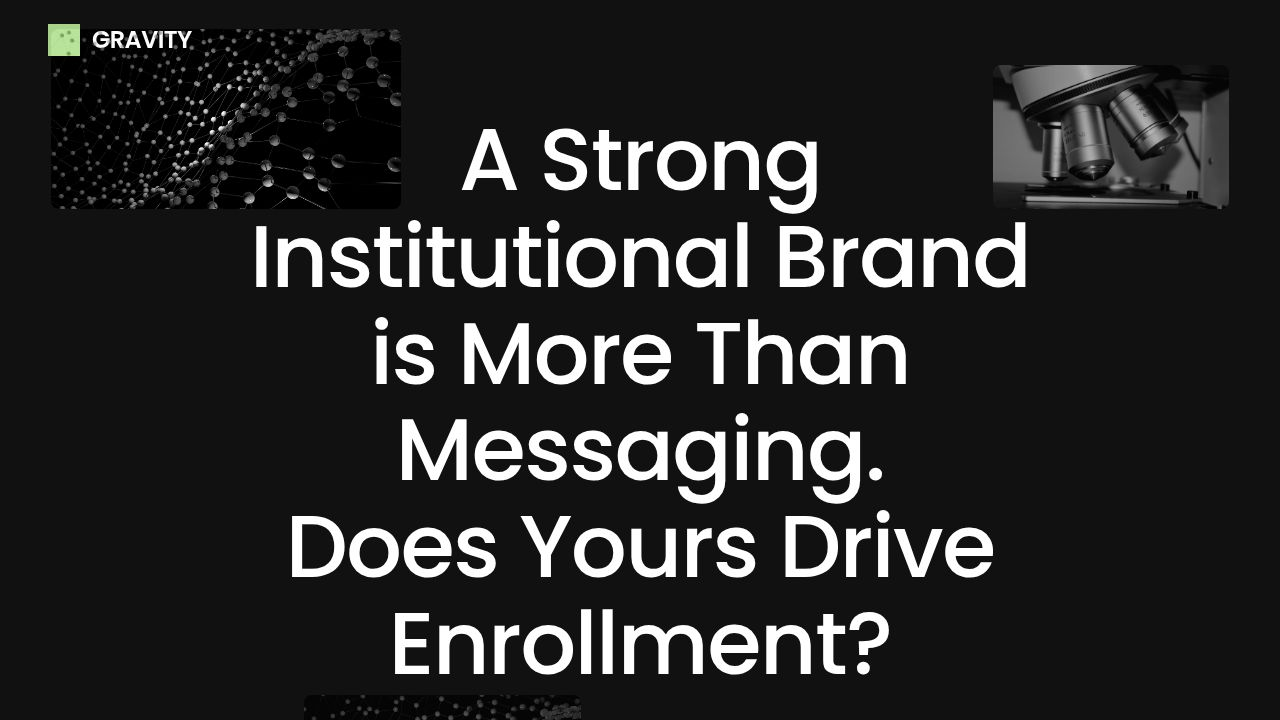
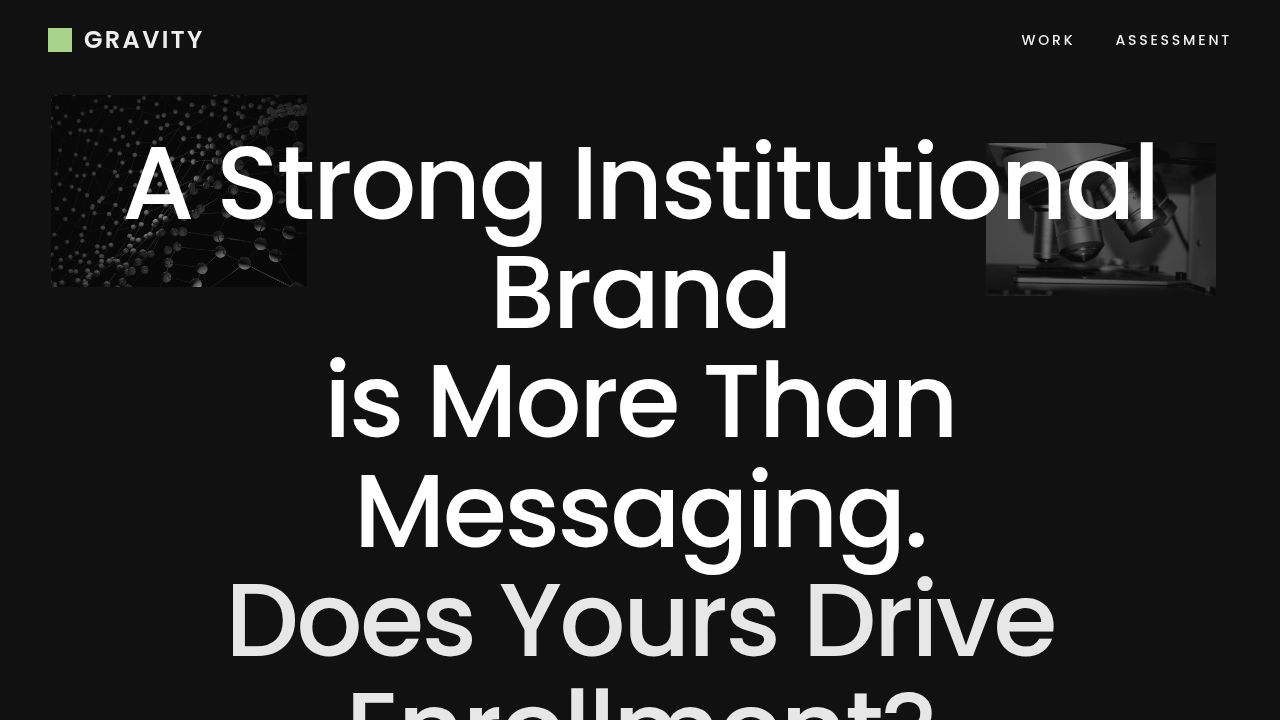
Enhance page design and add dynamic scrolling effects
Update Home.tsx with refined typography, spacing, and sharp corners, and implement CSS-based sticky positioning for layout.

Replit-Commit-Author: Agent
Replit-Commit-Session-Id: d6e0730f-b30e-491c-b3e2-d3f84d242913
Replit-Commit-Checkpoint-Type: full_checkpoint
Replit-Commit-Event-Id: 3c49ed87-6541-49a6-a26e-80dbf4d8117d
Replit-Commit-Screenshot-Url: https://storage.googleapis.com/screenshot-production-us-central1/9cd8e13a-6fcb-4403-b32e-22f1f94d53f9/d6e0730f-b30e-491c-b3e2-d3f84d242913/a3VxrYJ
Replit-Helium-Checkpoint-Created: true

diff --git a/client/src/pages/Home.tsx b/client/src/pages/Home.tsx
@@ -1,4 +1,3 @@
-import { Button } from "@/components/ui/button";
 import { useEffect, useState } from "react";
 
 export default function Home() {
@@ -13,175 +12,179 @@ export default function Home() {
     return () => window.removeEventListener("scroll", handleScroll);
   }, []);
 
+  const DiagonalArrow = ({ className = "" }: { className?: string }) => (
+    <svg xmlns="http://www.w3.org/2000/svg" width="24" height="24" viewBox="0 0 24 24" fill="none" stroke="currentColor" strokeWidth="1.5" strokeLinecap="square" strokeLinejoin="miter" className={className}>
+      <line x1="7" y1="17" x2="17" y2="7"></line>
+      <polyline points="7 7 17 7 17 17"></polyline>
+    </svg>
+  );
+
   return (
-    <div className="bg-[#111111] text-white font-sans selection:bg-[#B7E39B] selection:text-[#111111]">
+    <div className="bg-[#111111] text-white font-sans selection:bg-[#B7E39B] selection:text-[#111111] w-full overflow-x-hidden">
       
       {/* Navigation */}
-      <nav className="fixed w-full z-50 top-0 py-6 px-6 lg:px-12 flex items-center justify-between pointer-events-none">
-        <div className="pointer-events-auto flex items-center gap-3 bg-[#111]/80 backdrop-blur-md px-4 py-2 rounded-full border border-white/10">
-           <svg width="24" height="24" viewBox="0 0 32 32" fill="none" xmlns="http://www.w3.org/2000/svg">
-              <rect width="32" height="32" rx="0" fill="#B7E39B"/>
+      <nav className="fixed w-full z-50 top-0 py-8 px-6 lg:px-16 flex items-center justify-between pointer-events-none mix-blend-difference text-white">
+        <div className="pointer-events-auto flex items-center gap-4">
+           <svg width="28" height="28" viewBox="0 0 32 32" fill="none" xmlns="http://www.w3.org/2000/svg">
+              <rect width="32" height="32" fill="white"/>
            </svg>
-           <span className="font-semibold text-xl tracking-tight uppercase">Gravity</span>
+           <span className="font-semibold text-xl tracking-[0.2em] uppercase mt-1">Gravity</span>
         </div>
-        <div className="pointer-events-auto hidden md:flex items-center gap-8 text-sm font-medium tracking-wider uppercase bg-[#111]/80 backdrop-blur-md px-6 py-3 rounded-full border border-white/10">
-           <a href="#work" className="hover:text-[#B7E39B] transition-colors">Work</a>
-           <a href="#assessment" className="hover:text-[#B7E39B] transition-colors">Assessment</a>
+        <div className="pointer-events-auto hidden md:flex items-center gap-12 text-[12px] font-semibold tracking-[0.2em] uppercase mt-1">
+           <a href="#work" className="hover:opacity-50 transition-opacity duration-300">Work</a>
+           <a href="#assessment" className="hover:opacity-50 transition-opacity duration-300">Assessment</a>
         </div>
       </nav>
 
       {/* Hero Section */}
-      <section className="relative min-h-[100vh] md:min-h-[120vh] w-full flex items-center justify-center bg-[#111] pt-20 overflow-hidden">
+      <section className="relative min-h-screen w-full flex items-center justify-center bg-[#111111] pt-32 pb-32">
         
-        {/* Floating Images - 6 images in corners */}
-        <div className="absolute inset-0 z-0 pointer-events-none">
+        {/* Floating Images Parallax */}
+        <div className="absolute inset-0 z-0 pointer-events-none overflow-hidden">
            {/* Top Left */}
            <div 
-             className="absolute top-[10%] left-[5%] md:left-[8%] w-[200px] md:w-[300px] aspect-[4/3] opacity-60 transition-transform duration-75 ease-out"
-             style={{ transform: `translateY(${scrollY * 0.15}px)` }}
+             className="absolute top-[8%] left-[2%] w-[22vw] max-w-[320px] aspect-[4/3] opacity-[0.35] grayscale transition-transform duration-75 ease-out"
+             style={{ transform: `translateY(${scrollY * 0.1}px)` }}
            >
-              <img src="/src/assets/hero-bg.jpg" className="w-full h-full object-cover rounded-sm" alt=""/>
+              <img src="/src/assets/hero-bg.jpg" className="w-full h-full object-cover" alt=""/>
            </div>
+           
            {/* Top Right */}
            <div 
-             className="absolute top-[15%] right-[5%] md:right-[8%] w-[180px] md:w-[250px] aspect-[3/2] opacity-60 transition-transform duration-75 ease-out"
-             style={{ transform: `translateY(${scrollY * 0.25}px)` }}
+             className="absolute top-[12%] right-[2%] w-[18vw] max-w-[260px] aspect-[3/2] opacity-[0.25] grayscale transition-transform duration-75 ease-out"
+             style={{ transform: `translateY(${scrollY * 0.18}px)` }}
            >
-              <img src="/src/assets/ucla.jpg" className="w-full h-full object-cover rounded-sm" alt=""/>
+              <img src="/src/assets/ucla.jpg" className="w-full h-full object-cover" alt=""/>
            </div>
-           {/* Bottom Left Pair */}
+           
+           {/* Bottom Left Group */}
            <div 
-             className="absolute bottom-[10%] left-[5%] md:left-[8%] flex gap-4 items-end opacity-60 transition-transform duration-75 ease-out"
+             className="absolute bottom-[2%] left-[-1%] flex gap-[2vw] items-end transition-transform duration-75 ease-out"
              style={{ transform: `translateY(-${scrollY * 0.1}px)` }}
            >
-              <div className="w-[150px] md:w-[200px] aspect-[4/3]">
-                 <img src="/src/assets/montgomery-college.jpg" className="w-full h-full object-cover rounded-sm" alt=""/>
+              <div className="w-[18vw] max-w-[240px] aspect-[4/3] opacity-[0.45] grayscale">
+                 <img src="/src/assets/montgomery-college.jpg" className="w-full h-full object-cover" alt=""/>
               </div>
-              <div className="w-[120px] md:w-[180px] aspect-[3/4]">
-                 <img src="/src/assets/hero-bg.jpg" className="w-full h-full object-cover rounded-sm" alt=""/>
+              <div className="w-[20vw] max-w-[280px] aspect-[3/4] opacity-[0.35] grayscale">
+                 <img src="/src/assets/hero-bg.jpg" className="w-full h-full object-cover" alt=""/>
               </div>
            </div>
-           {/* Bottom Right Pair */}
+           
+           {/* Bottom Right Group */}
            <div 
-             className="absolute bottom-[5%] right-[5%] md:right-[8%] flex gap-4 items-start opacity-60 transition-transform duration-75 ease-out"
-             style={{ transform: `translateY(-${scrollY * 0.2}px)` }}
+             className="absolute bottom-[8%] right-[1%] flex gap-[2vw] items-start transition-transform duration-75 ease-out"
+             style={{ transform: `translateY(-${scrollY * 0.15}px)` }}
            >
-              <div className="w-[180px] md:w-[220px] aspect-[4/3]">
-                 <img src="/src/assets/ucla.jpg" className="w-full h-full object-cover rounded-sm" alt=""/>
+              <div className="w-[18vw] max-w-[260px] aspect-[4/3] opacity-[0.35] grayscale">
+                 <img src="/src/assets/ucla.jpg" className="w-full h-full object-cover" alt=""/>
               </div>
-              <div className="w-[140px] md:w-[160px] aspect-[3/4] mt-8 md:mt-12">
-                 <img src="/src/assets/montgomery-college.jpg" className="w-full h-full object-cover rounded-sm" alt=""/>
+              <div className="w-[14vw] max-w-[190px] aspect-[3/4] mt-24 opacity-[0.45] grayscale">
+                 <img src="/src/assets/montgomery-college.jpg" className="w-full h-full object-cover" alt=""/>
               </div>
            </div>
         </div>
 
         {/* Center Text */}
-        <div className="relative z-10 flex flex-col items-center text-center px-4 w-full max-w-[1000px] mt-8">
-          <h1 className="text-[3rem] sm:text-[4rem] md:text-[5rem] lg:text-[6rem] font-medium leading-[1.05] tracking-tight mb-8 drop-shadow-2xl">
+        <div className="relative z-10 flex flex-col items-center text-center px-6 w-full max-w-[1200px] mix-blend-difference text-white">
+          <h1 className="text-[3.5rem] sm:text-[5rem] md:text-[6.5rem] lg:text-[7.5rem] font-medium leading-[1] tracking-[-0.03em] mb-10 text-white">
             A Strong Institutional Brand<br/>
             is More Than Messaging.<br/>
-            Does Yours Drive Enrollment?
+            <span className="text-white/60">Does Yours Drive Enrollment?</span>
           </h1>
-          <p className="text-lg md:text-[1.25rem] text-white/90 max-w-[700px] mb-12 leading-relaxed font-medium drop-shadow-lg">
+          <p className="text-xl md:text-[1.4rem] text-white/60 max-w-[760px] mb-16 leading-[1.6] font-light">
             Let's shape what's next for your institution. Start with the assessment, explore real college success stories, or grab your chance for a free comprehensive brand audit.
           </p>
-          <div className="flex flex-col sm:flex-row gap-6 items-center w-full sm:w-auto">
-            <a href="#assessment" className="flex items-center gap-6 bg-[#B7E39B] text-[#111] hover:bg-white hover:text-[#111] transition-colors duration-300 px-8 py-4 text-lg font-medium w-full sm:w-auto justify-between group rounded-sm shadow-xl">
-              <span>Take the Quiz</span>
-              <svg xmlns="http://www.w3.org/2000/svg" width="20" height="20" viewBox="0 0 66 76" fill="none" className="transform group-hover:translate-x-1 transition-transform">
-                <path d="M1 10.6182H65M65 10.6182V74.6182M65 10.6182L1 74.6182" stroke="currentColor" strokeWidth="6"></path>
-              </svg>
+          <div className="flex flex-col sm:flex-row gap-6 items-center justify-center w-full">
+            <a href="#assessment" className="group flex items-center justify-between gap-12 border border-[#B7E39B] bg-transparent hover:bg-[#B7E39B] text-[#B7E39B] hover:text-[#111] transition-all duration-300 px-10 py-5 text-lg font-medium w-full sm:w-auto min-w-[300px]">
+              <span className="tracking-wide">Take the Quiz</span>
+              <DiagonalArrow className="transform group-hover:translate-x-1 group-hover:-translate-y-1 transition-transform duration-300" />
             </a>
-            <a href="#audit" className="flex items-center gap-6 bg-[#111]/80 backdrop-blur-md border border-[#B7E39B] text-[#B7E39B] hover:bg-[#B7E39B] hover:text-[#111] transition-colors duration-300 px-8 py-4 text-lg font-medium w-full sm:w-auto justify-between group rounded-sm shadow-xl">
-              <span>Win a Free Brand Audit</span>
-              <svg xmlns="http://www.w3.org/2000/svg" width="20" height="20" viewBox="0 0 66 76" fill="none" className="transform group-hover:translate-x-1 transition-transform">
-                <path d="M1 10.6182H65M65 10.6182V74.6182M65 10.6182L1 74.6182" stroke="currentColor" strokeWidth="6"></path>
-              </svg>
+            <a href="#audit" className="group flex items-center justify-between gap-12 border border-white/30 bg-transparent hover:border-white hover:bg-white text-white hover:text-[#111] transition-all duration-300 px-10 py-5 text-lg font-medium w-full sm:w-auto min-w-[300px]">
+              <span className="tracking-wide">Win a Free Brand Audit</span>
+              <DiagonalArrow className="transform group-hover:translate-x-1 group-hover:-translate-y-1 transition-transform duration-300" />
             </a>
           </div>
         </div>
       </section>
 
       {/* Intro Section */}
-      <section className="bg-[#111] py-32 lg:py-48 px-6 lg:px-12 relative z-20">
-        <div className="max-w-[1312px] mx-auto">
-          <p className="text-sm font-medium tracking-[0.2em] uppercase text-[#B7E39B] mb-8">Our Focus on Institutions</p>
-          <div className="max-w-[1000px]">
-             <h2 className="text-[2rem] md:text-[3.5rem] lg:text-[4.5rem] font-medium leading-[1.1] tracking-tight mb-8">
-               From first awareness to active advocacy, <span className="text-white/40">leading institutions are designing experiences that turn students into ambassadors.</span>
+      <section className="bg-[#111111] py-40 lg:py-56 px-6 lg:px-16 relative z-20">
+        <div className="max-w-[1400px] mx-auto">
+          <p className="text-[13px] font-semibold tracking-[0.25em] uppercase text-[#B7E39B] mb-12">Our Focus on Institutions</p>
+          <div className="max-w-[1200px]">
+             <h2 className="text-[3rem] md:text-[4.5rem] lg:text-[5.5rem] font-medium leading-[1.05] tracking-[-0.02em] mb-10 text-white">
+               From first awareness to active advocacy, <span className="text-white/30">leading institutions are designing experiences that turn students into ambassadors.</span>
              </h2>
-             <p className="text-xl text-white/50 leading-relaxed font-light">
+             <p className="text-2xl lg:text-[1.75rem] text-white/40 leading-[1.6] font-light max-w-[860px]">
                See how institutions like Montgomery College and UCLA align brand strategy with the student journey.
              </p>
           </div>
         </div>
       </section>
 
-      {/* CSS Sticky Case Studies */}
-      <section id="work" className="relative w-full bg-[#111]">
+      {/* Sticky Case Studies */}
+      <section id="work" className="relative w-full bg-[#111111]">
          
          {/* Slide 1: Montgomery College */}
-         <div className="sticky top-0 h-screen w-full flex items-center px-6 lg:px-12 bg-[#111] overflow-hidden pt-20">
-            <div className="max-w-[1312px] mx-auto w-full grid lg:grid-cols-[1fr_1.2fr] gap-12 lg:gap-24 items-center">
+         <div className="sticky top-0 min-h-screen w-full flex items-center px-6 lg:px-16 bg-[#111111] pt-32 pb-32 border-t border-white/10">
+            <div className="max-w-[1500px] mx-auto w-full grid lg:grid-cols-[1fr_1.4fr] gap-16 lg:gap-32 items-center">
                
-               <div className="flex flex-col gap-8">
+               <div className="flex flex-col gap-10">
                   <div>
-                    <p className="text-white/60 mb-4 text-lg">Showcasing Exceptional Education & Extraordinary Outcomes</p>
-                    <h2 className="text-[3rem] md:text-[4rem] lg:text-[5rem] leading-[1.05] font-medium text-white mb-6 tracking-tight">
-                      Montgomery College
+                    <p className="text-[#B7E39B] text-[12px] font-semibold tracking-[0.25em] uppercase mb-8">Montgomery College</p>
+                    <h2 className="text-[3.5rem] md:text-[5rem] lg:text-[6rem] leading-[1] font-medium text-white tracking-[-0.02em]">
+                      Showcasing Exceptional Education & Outcomes
                     </h2>
-                    <div className="text-[3rem] font-medium text-[#B7E39B]">01</div>
                   </div>
-                  <div className="space-y-6 text-white/70 text-lg font-light leading-relaxed">
-                    <p><strong className="text-white font-medium">The Challenge:</strong> Montgomery College set out to reframe its story—shifting perceptions of what a community college can be. The goal was to attract more students, deepen pride among alumni, and unify teams.</p>
-                    <p><strong className="text-white font-medium">Our Approach:</strong> Gravity began by engaging deeply with the College community through workshops and learner surveys. These insights informed the development of a new brand platform.</p>
+                  <div className="space-y-6 text-white/50 text-xl lg:text-[1.35rem] font-light leading-[1.6]">
+                    <p><strong className="text-white/80 font-medium">The Challenge:</strong> Montgomery College set out to reframe its story—shifting perceptions of what a community college can be. The goal was to attract more students, deepen pride among alumni, and unify teams.</p>
+                    <p><strong className="text-white/80 font-medium">Our Approach:</strong> Gravity began by engaging deeply with the College community through workshops and learner surveys. These insights informed the development of a new brand platform.</p>
                   </div>
-                  <div className="grid grid-cols-2 gap-8 pt-8 border-t border-white/10 mt-4">
+                  <div className="grid grid-cols-2 gap-12 pt-12 border-t border-white/10 mt-6">
                      <div>
-                       <div className="text-[3rem] font-medium text-[#B7E39B] leading-none mb-2">100%</div>
-                       <div className="text-sm opacity-60 uppercase tracking-wider">Leadership adoption</div>
+                       <div className="text-[4.5rem] lg:text-[5.5rem] font-medium text-white leading-none mb-4 tracking-tighter">100%</div>
+                       <div className="text-[12px] text-[#B7E39B] uppercase tracking-[0.2em] font-semibold">Leadership adoption</div>
                      </div>
                      <div>
-                       <div className="text-[3rem] font-medium text-[#B7E39B] leading-none mb-2">3</div>
-                       <div className="text-sm opacity-60 uppercase tracking-wider">Creative platforms</div>
+                       <div className="text-[4.5rem] lg:text-[5.5rem] font-medium text-white leading-none mb-4 tracking-tighter">3</div>
+                       <div className="text-[12px] text-[#B7E39B] uppercase tracking-[0.2em] font-semibold">Creative platforms</div>
                      </div>
                   </div>
                </div>
 
-               <div className="w-full aspect-[4/3] relative rounded-none overflow-hidden group">
-                  <img src="/src/assets/montgomery-college.jpg" className="w-full h-full object-cover transition-transform duration-700 group-hover:scale-105" alt="Montgomery College" />
+               <div className="w-full aspect-[4/3] lg:aspect-[3/4] max-h-[85vh] relative overflow-hidden bg-[#1a1a1a]">
+                  <img src="/src/assets/montgomery-college.jpg" className="w-full h-full object-cover opacity-60 hover:opacity-100 transition-all duration-1000 hover:scale-[1.03] grayscale hover:grayscale-0" alt="Montgomery College" />
                </div>
 
             </div>
          </div>
 
          {/* Slide 2: UCLA */}
-         <div className="sticky top-0 h-screen w-full flex items-center px-6 lg:px-12 bg-[#111] border-t border-white/10 overflow-hidden shadow-[0_-20px_50px_rgba(0,0,0,0.5)] pt-20">
-            <div className="max-w-[1312px] mx-auto w-full grid lg:grid-cols-[1fr_1.2fr] gap-12 lg:gap-24 items-center">
+         <div className="sticky top-0 min-h-screen w-full flex items-center px-6 lg:px-16 bg-[#111111] pt-32 pb-32 border-t border-white/10 shadow-[0_-30px_60px_rgba(0,0,0,0.8)]">
+            <div className="max-w-[1500px] mx-auto w-full grid lg:grid-cols-[1fr_1.4fr] gap-16 lg:gap-32 items-center">
                
-               <div className="flex flex-col gap-8">
+               <div className="flex flex-col gap-10">
                   <div>
-                    <p className="text-white/60 mb-4 text-lg">Research Powers Miracles at UCLA</p>
-                    <h2 className="text-[3rem] md:text-[4rem] lg:text-[5rem] leading-[1.05] font-medium text-white mb-6 tracking-tight">
-                      UCLA
+                    <p className="text-[#B7E39B] text-[12px] font-semibold tracking-[0.25em] uppercase mb-8">UCLA</p>
+                    <h2 className="text-[3.5rem] md:text-[5rem] lg:text-[6rem] leading-[1] font-medium text-white tracking-[-0.02em]">
+                      Research Powers Miracles at UCLA
                     </h2>
-                    <div className="text-[3rem] font-medium text-[#B7E39B]">02</div>
                   </div>
-                  <div className="space-y-6 text-white/70 text-lg font-light leading-relaxed">
-                    <p><strong className="text-white font-medium">The Challenge:</strong> UCLA wanted a story that wouldn't feel like another "university video." It needed to feel warm and personal, not institutional, while speaking to a wide audience.</p>
-                    <p><strong className="text-white font-medium">Our Approach:</strong> Instead of big promises, UCLA had an opportunity to tell a true story only they could tell: research that directly changes a person's life, plus the community that makes those breakthroughs possible.</p>
+                  <div className="space-y-6 text-white/50 text-xl lg:text-[1.35rem] font-light leading-[1.6]">
+                    <p><strong className="text-white/80 font-medium">The Challenge:</strong> UCLA wanted a story that wouldn't feel like another "university video." It needed to feel warm and personal, not institutional, while speaking to a wide audience.</p>
+                    <p><strong className="text-white/80 font-medium">Our Approach:</strong> Instead of big promises, UCLA had an opportunity to tell a true story only they could tell: research that directly changes a person's life, plus the community that makes those breakthroughs possible.</p>
                   </div>
-                  <div className="pt-8 border-t border-white/10 mt-4">
-                     <ul className="space-y-4">
-                       <li className="flex gap-4 items-start"><span className="text-[#B7E39B] mt-1">/</span><span className="text-white/80">Show UCLA's impact beyond campus</span></li>
-                       <li className="flex gap-4 items-start"><span className="text-[#B7E39B] mt-1">/</span><span className="text-white/80">Make complex science feel human</span></li>
-                       <li className="flex gap-4 items-start"><span className="text-[#B7E39B] mt-1">/</span><span className="text-white/80">Reinforce lifelong connection</span></li>
+                  <div className="pt-12 border-t border-white/10 mt-6">
+                     <ul className="space-y-6 text-xl lg:text-[1.35rem] font-light">
+                       <li className="flex gap-6 items-start"><span className="text-[#B7E39B] font-medium">/</span><span className="text-white/60">Show UCLA's impact beyond campus</span></li>
+                       <li className="flex gap-6 items-start"><span className="text-[#B7E39B] font-medium">/</span><span className="text-white/60">Make complex science feel human</span></li>
+                       <li className="flex gap-6 items-start"><span className="text-[#B7E39B] font-medium">/</span><span className="text-white/60">Reinforce lifelong connection</span></li>
                      </ul>
                   </div>
                </div>
 
-               <div className="w-full aspect-[4/3] relative rounded-none overflow-hidden group">
-                  <img src="/src/assets/ucla.jpg" className="w-full h-full object-cover transition-transform duration-700 group-hover:scale-105" alt="UCLA" />
+               <div className="w-full aspect-[4/3] lg:aspect-[3/4] max-h-[85vh] relative overflow-hidden bg-[#1a1a1a]">
+                  <img src="/src/assets/ucla.jpg" className="w-full h-full object-cover opacity-60 hover:opacity-100 transition-all duration-1000 hover:scale-[1.03] grayscale hover:grayscale-0" alt="UCLA" />
                </div>
 
             </div>
@@ -190,65 +193,60 @@ export default function Home() {
       </section>
 
       {/* Assessment CTA */}
-      <section id="assessment" className="py-32 lg:py-48 px-6 lg:px-12 bg-[#111] relative z-20 border-t border-white/10">
-        <div className="max-w-[1312px] mx-auto grid lg:grid-cols-2 gap-16 items-center">
-          <div>
-            <h2 className="text-[3rem] md:text-[4.5rem] font-medium leading-[1.05] tracking-tight mb-8">
+      <section id="assessment" className="py-40 lg:py-56 px-6 lg:px-16 bg-[#111111] relative z-20 border-t border-white/10">
+        <div className="max-w-[1500px] mx-auto grid lg:grid-cols-2 gap-20 items-center">
+          <div className="order-2 lg:order-1">
+            <h2 className="text-[4rem] md:text-[5.5rem] lg:text-[7rem] font-medium leading-[1] tracking-[-0.02em] mb-10 text-white">
               The 3-Minute <br/> Enrollment Check
             </h2>
-            <p className="text-xl md:text-2xl text-white/60 mb-12 font-light leading-relaxed max-w-lg">
+            <p className="text-xl lg:text-[1.5rem] text-white/50 mb-14 font-light leading-[1.6] max-w-[600px]">
               Find out if your institution's brand story reflects its full potential and is driving measurable growth.
             </p>
-            <a href="#" className="inline-flex items-center gap-6 border border-[#B7E39B] text-[#B7E39B] hover:bg-[#B7E39B] hover:text-[#111] transition-colors duration-300 px-8 py-5 font-medium text-lg justify-between group rounded-sm w-full sm:w-auto">
-              <span>Start Quiz</span>
-              <svg xmlns="http://www.w3.org/2000/svg" width="24" height="24" viewBox="0 0 66 76" fill="none" className="transform group-hover:translate-x-1 transition-transform">
-                <path d="M1 10.6182H65M65 10.6182V74.6182M65 10.6182L1 74.6182" stroke="currentColor" strokeWidth="6"></path>
-              </svg>
+            <a href="#" className="group inline-flex items-center justify-between gap-12 border border-[#B7E39B] bg-[#B7E39B] hover:bg-transparent text-[#111] hover:text-[#B7E39B] transition-all duration-300 px-10 py-5 font-medium text-lg w-full sm:w-auto min-w-[320px]">
+              <span className="tracking-wide">Start Quiz</span>
+              <DiagonalArrow className="transform group-hover:translate-x-1 group-hover:-translate-y-1 transition-transform duration-300" />
             </a>
           </div>
           
-          <div className="flex justify-center lg:justify-end">
-            <div className="w-full max-w-[450px] aspect-square border border-[#B7E39B] rounded-full flex flex-col items-center justify-center p-12 text-center relative group overflow-hidden bg-[#111]">
-              <div className="absolute inset-0 bg-[#B7E39B]/5 group-hover:bg-[#B7E39B]/10 transition-colors"></div>
-              <h3 className="text-2xl font-medium mb-4 relative z-10 text-[#B7E39B]">Is Your Brand Driving Growth?</h3>
-              <p className="text-white/60 relative z-10 text-lg">A 3-minute executive assessment for Presidents, CMOs, and Enrollment Leaders.</p>
+          <div className="order-1 lg:order-2 flex justify-center lg:justify-end">
+            <div className="w-[85vw] max-w-[550px] aspect-square border border-white/10 rounded-full flex flex-col items-center justify-center p-16 lg:p-24 text-center relative group overflow-hidden bg-transparent transition-all duration-700 hover:border-[#B7E39B]/40 hover:bg-[#B7E39B]/5 cursor-pointer">
+              <h3 className="text-3xl md:text-[2.75rem] font-medium mb-6 relative z-10 text-white group-hover:text-[#B7E39B] transition-colors duration-500 tracking-tight leading-[1.1]">Is Your Brand Driving Growth?</h3>
+              <p className="text-white/40 relative z-10 text-lg lg:text-xl font-light leading-[1.6] group-hover:text-white/70 transition-colors duration-500">A 3-minute executive assessment for Presidents, CMOs, and Enrollment Leaders.</p>
             </div>
           </div>
         </div>
       </section>
 
       {/* Brand Audit Banner */}
-      <section id="audit" className="py-32 lg:py-48 px-6 lg:px-12 bg-[#B7E39B] text-[#111] text-center">
-        <div className="max-w-[1000px] mx-auto">
-          <h2 className="text-[3rem] md:text-[5rem] font-medium leading-[1.05] tracking-tight mb-8">
-            Win a Free Brand Audit
+      <section id="audit" className="py-40 lg:py-56 px-6 lg:px-16 bg-[#B7E39B] text-[#111111] text-center">
+        <div className="max-w-[1400px] mx-auto flex flex-col items-center">
+          <h2 className="text-[4.5rem] md:text-[7rem] lg:text-[9rem] font-medium leading-[0.95] tracking-[-0.03em] mb-12">
+            Win a Free <br className="hidden md:block"/> Brand Audit
           </h2>
-          <p className="text-xl md:text-2xl opacity-80 mb-12 font-medium leading-relaxed">
+          <p className="text-xl lg:text-[1.75rem] opacity-80 mb-16 font-medium leading-[1.5] max-w-[1000px] mx-auto">
             One institution will receive a complimentary 1:1 Enrollment Acceleration Workshop — a private working session with Gravity experts focused on identifying enrollment friction and mapping growth opportunities.
           </p>
-          <a href="#" className="inline-flex items-center gap-6 border border-[#111] text-[#111] hover:bg-[#111] hover:text-[#B7E39B] transition-colors duration-300 px-10 py-5 font-medium text-xl justify-between group rounded-sm">
-            <span>Enter Now</span>
-            <svg xmlns="http://www.w3.org/2000/svg" width="24" height="24" viewBox="0 0 66 76" fill="none" className="transform group-hover:translate-x-1 transition-transform">
-              <path d="M1 10.6182H65M65 10.6182V74.6182M65 10.6182L1 74.6182" stroke="currentColor" strokeWidth="6"></path>
-            </svg>
+          <a href="#" className="group inline-flex items-center justify-between gap-12 border border-[#111111] bg-transparent hover:bg-[#111111] text-[#111111] hover:text-[#B7E39B] transition-all duration-300 px-12 py-6 font-medium text-xl w-full sm:w-auto min-w-[340px]">
+            <span className="tracking-wide">Enter Now</span>
+            <DiagonalArrow className="transform group-hover:translate-x-1 group-hover:-translate-y-1 transition-transform duration-300" />
           </a>
         </div>
       </section>
 
       {/* Footer */}
-      <footer className="py-16 px-6 lg:px-12 bg-[#111] border-t border-white/10">
-        <div className="max-w-[1312px] mx-auto flex flex-col md:flex-row justify-between items-center gap-6">
-          <div className="flex items-center gap-3">
-             <svg width="24" height="24" viewBox="0 0 32 32" fill="none" xmlns="http://www.w3.org/2000/svg">
-                <rect width="32" height="32" rx="0" fill="#B7E39B"/>
+      <footer className="py-24 px-6 lg:px-16 bg-[#111111] border-t border-white/10">
+        <div className="max-w-[1500px] mx-auto flex flex-col lg:flex-row justify-between items-center gap-12">
+          <div className="flex items-center gap-4">
+             <svg width="36" height="36" viewBox="0 0 32 32" fill="none" xmlns="http://www.w3.org/2000/svg">
+                <rect width="32" height="32" fill="#B7E39B"/>
              </svg>
-             <span className="font-semibold text-xl tracking-widest uppercase">Gravity</span>
+             <span className="font-semibold text-2xl tracking-[0.2em] uppercase text-white mt-1">Gravity</span>
           </div>
-          <div className="flex gap-8 text-sm text-white/50 uppercase tracking-widest font-medium">
-            <a href="#" className="hover:text-[#B7E39B] transition-colors">Privacy Policy</a>
-            <a href="#" className="hover:text-[#B7E39B] transition-colors">Terms of Service</a>
+          <div className="flex gap-16 text-[12px] text-white/50 uppercase tracking-[0.2em] font-semibold mt-1">
+            <a href="#" className="hover:text-white transition-colors duration-300">Privacy Policy</a>
+            <a href="#" className="hover:text-white transition-colors duration-300">Terms of Service</a>
           </div>
-          <div className="text-sm text-white/30 font-light">
+          <div className="text-[12px] text-white/30 font-light tracking-widest uppercase mt-1">
             © {new Date().getFullYear()} Gravity Global. All rights reserved.
           </div>
         </div>
